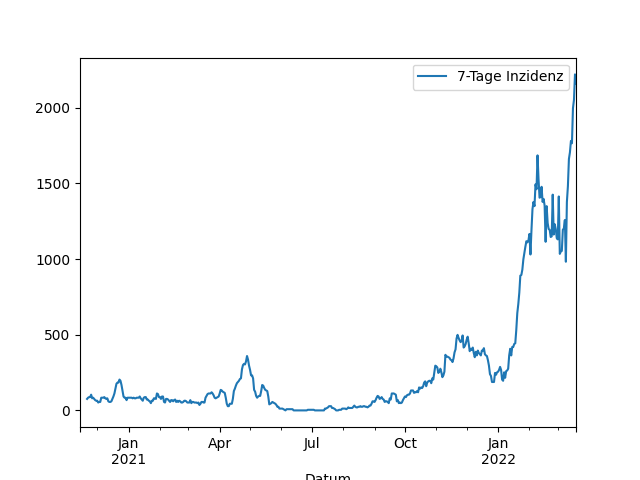
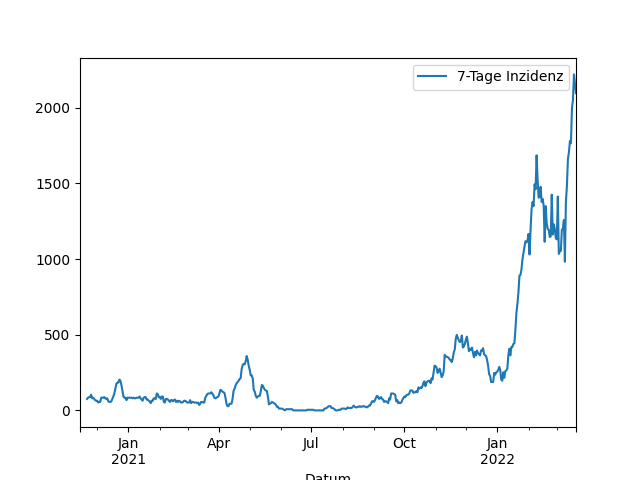
Update images

diff --git a/_includes/aktuelle_inzidenz.md b/_includes/aktuelle_inzidenz.md
@@ -1,1 +1,1 @@
-2159,5
+2095,6
